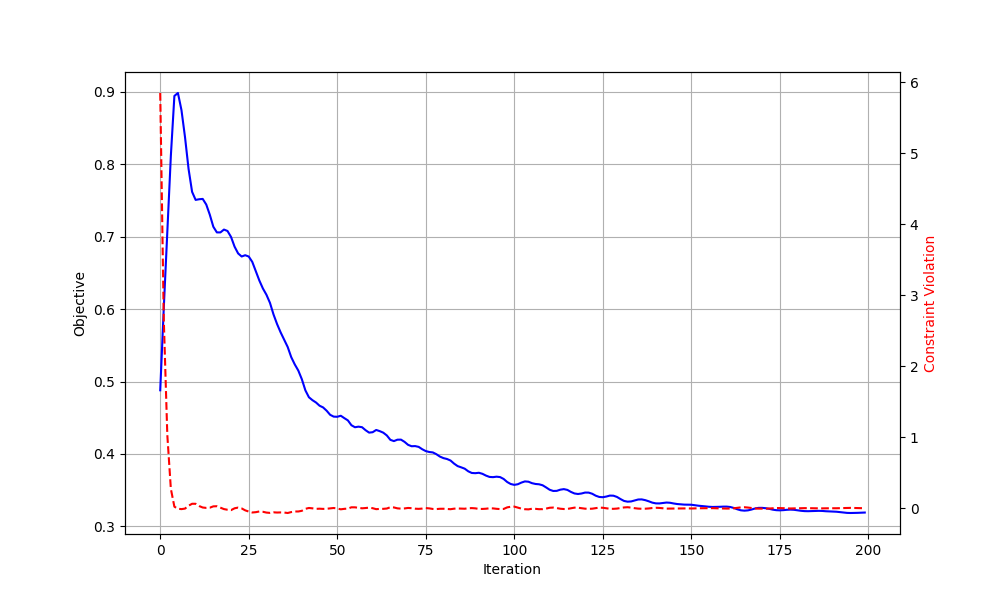
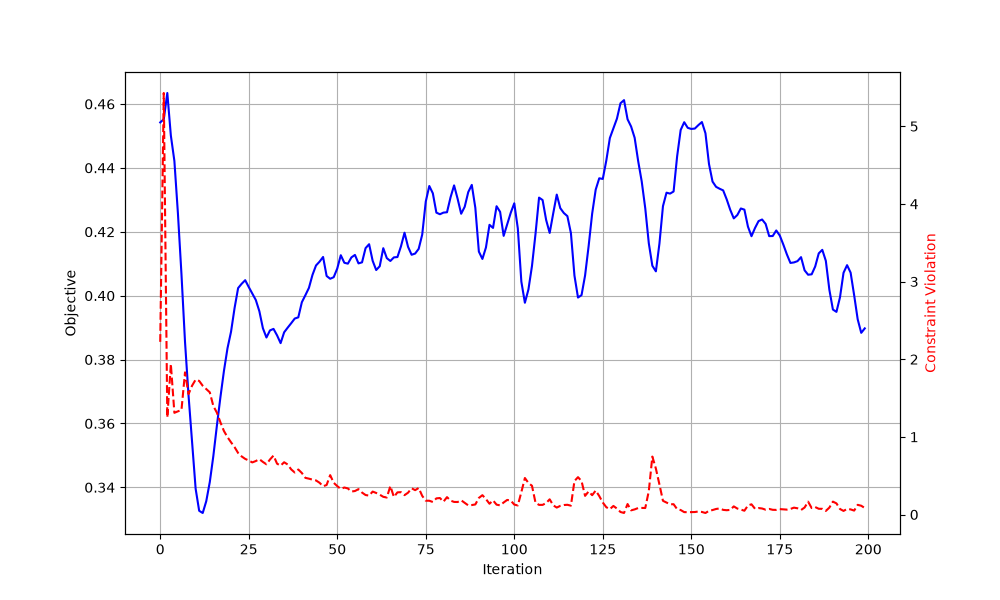
.

diff --git a/Lbracket2d_NN.py b/Lbracket2d_NN.py
@@ -20,7 +20,7 @@ prob = Problem()
 # 1 = Minimize volume, Constraint: max stress
 # 2 = Minimize max stress, Constraint: volume
 # 3 = Minimize volume, Constraint: local ALM stress
-run_mode = 0
+run_mode = 1
 prob.opt.options.max_iter = 200 # Longer run for projection check
 # Objective and Constraints
 if run_mode == 1:
@@ -56,8 +56,8 @@ elif run_mode == 3:
 # =================================
 # ------- NN Hyperparameters ------
 prob.opt.nn_params.use_tounn_logic = True
-prob.opt.nn_params.hidden_dim = 20
-prob.opt.nn_params.num_layers = 5
+prob.opt.nn_params.hidden_dim = 32
+prob.opt.nn_params.num_layers = 4
 prob.opt.nn_params.vol_penal_min = 1
 prob.opt.nn_params.vol_penal_max = 20
 prob.opt.nn_params.activation = 'ReLU'

diff --git a/src/optim_nn.py b/src/optim_nn.py
@@ -398,7 +398,8 @@ class Optimizer_Neural:
             else:
                 torch.nn.utils.clip_grad_norm_(self.net.parameters(), max_norm=1.0)
             self.optimizer.step()
-            self.scheduler.step()       # optional — could update every 20 iters
+            if not getattr(opt.nn_params, 'use_tounn_logic', False):
+                self.scheduler.step()       # optional — could update every 20 iters
             
             # TOuNN penalization continuation update
             if getattr(opt.nn_params, 'use_tounn_logic', False):